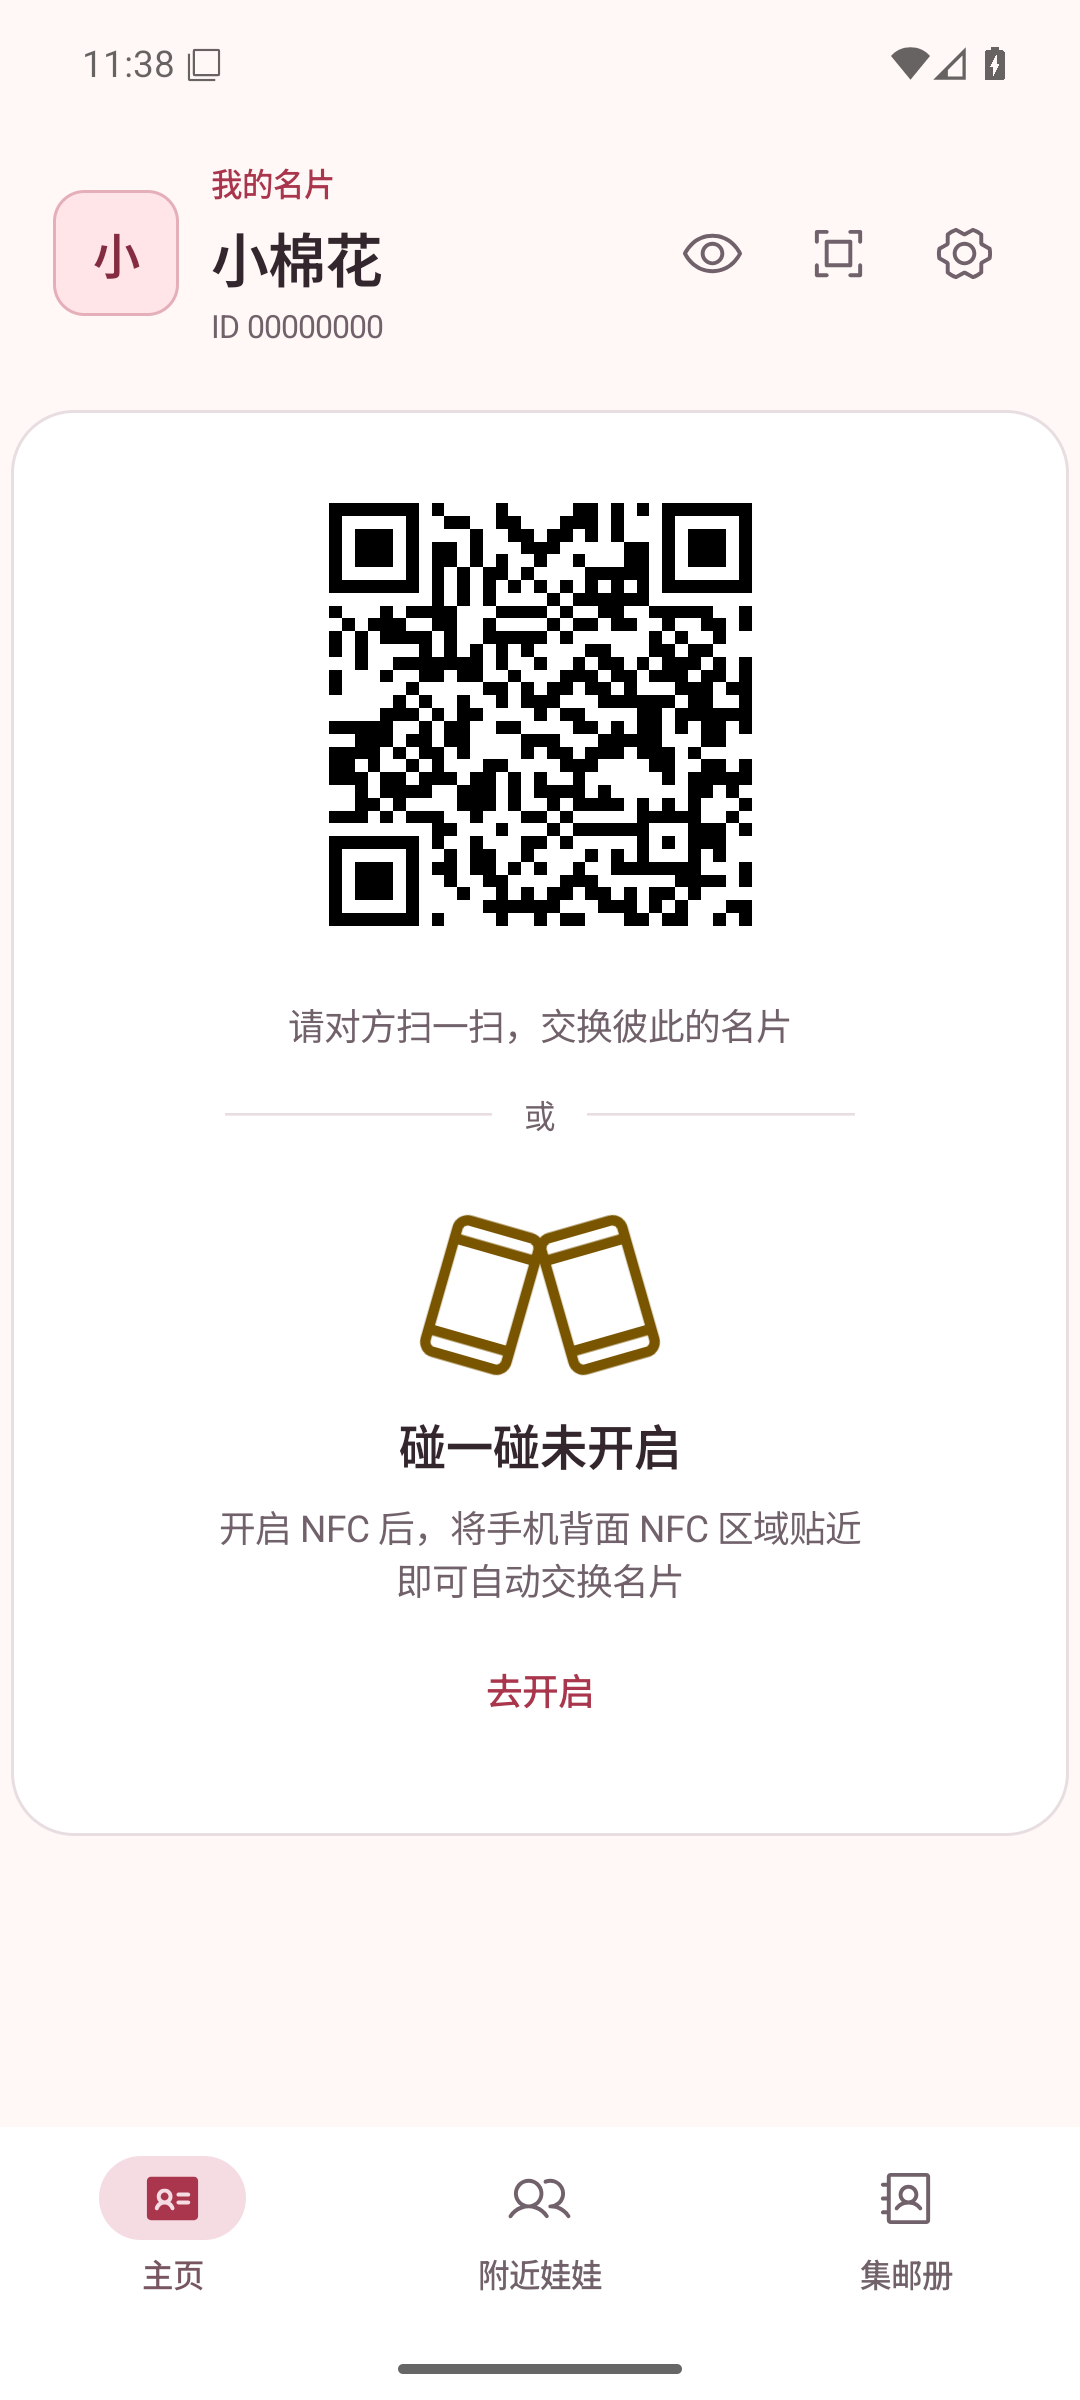
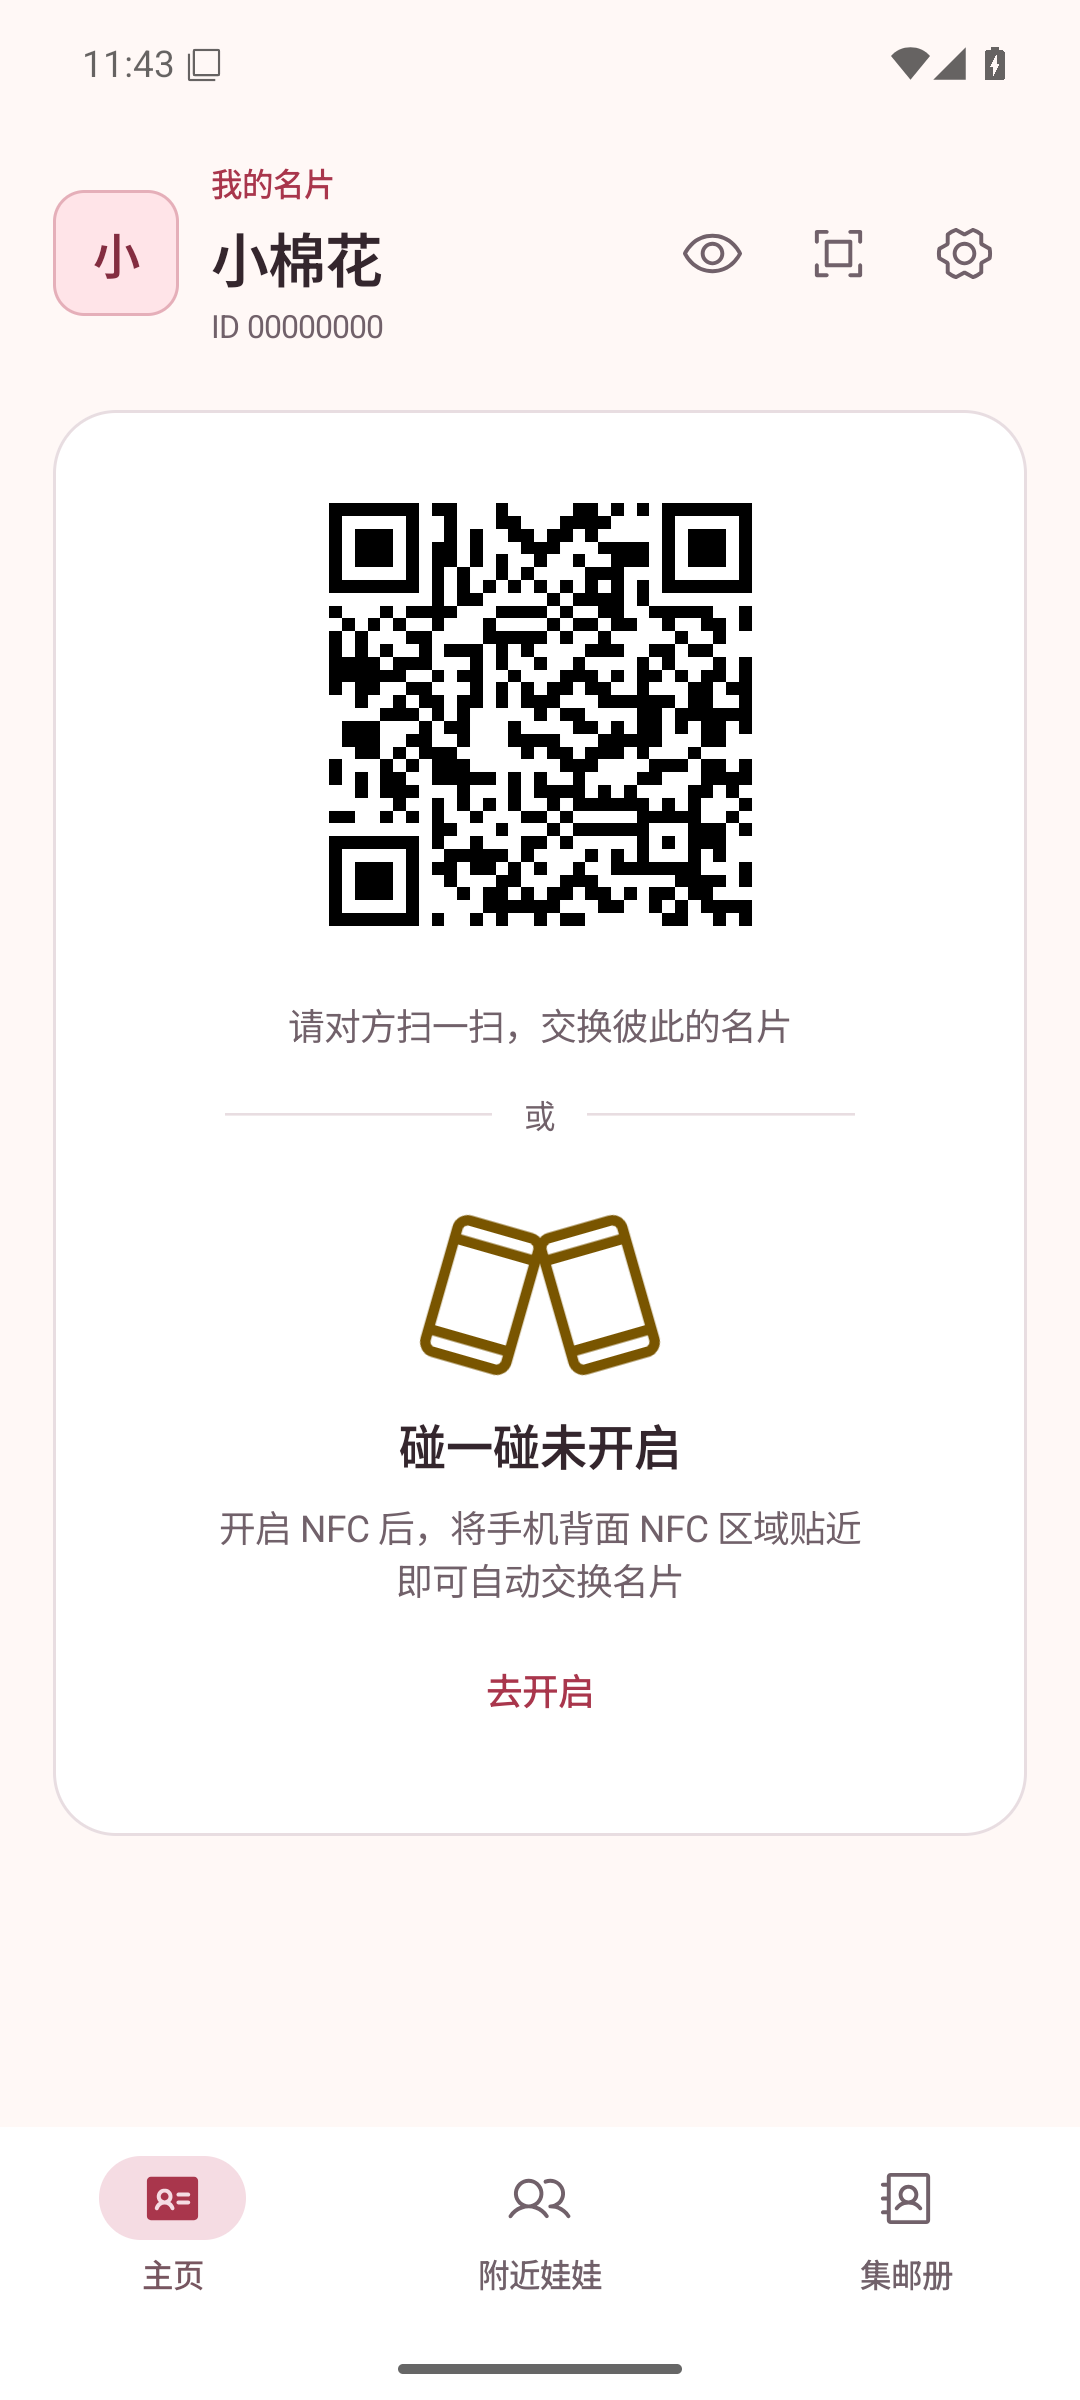
style(ui): set exchange bubble horizontal margin to 20dp

diff --git a/app/src/main/kotlin/app/pengwa/ui/FaceToFacePage.kt b/app/src/main/kotlin/app/pengwa/ui/FaceToFacePage.kt
@@ -142,7 +142,7 @@ internal fun FaceToFacePageContent(
         val compact = maxHeight < 300.dp && maxWidth >= 480.dp
         val codeSize = minOf(200.dp, maxHeight - 40.dp).coerceAtLeast(48.dp)
         Column(
-            Modifier.fillMaxSize().padding(horizontal = 4.dp, vertical = 12.dp)
+            Modifier.fillMaxSize().padding(horizontal = 20.dp, vertical = 12.dp)
                 .verticalScroll(rememberScrollState()),
             verticalArrangement = Arrangement.spacedBy(12.dp),
             horizontalAlignment = Alignment.CenterHorizontally,

diff --git a/docs/screenshots/card-qr-actions/README.md b/docs/screenshots/card-qr-actions/README.md
@@ -2,13 +2,13 @@
 
 - 删除底部通栏“扫一扫”，改为右上角的取景框式扫码图标（Phosphor Scan）；保留 48dp 触控区域和“扫一扫”无障碍名称。
 - 编辑入口收进名片预览：点击眼睛图标“查看我的卡片”，再点“编辑”；保存后返回预览。同步更新首次创建名片的说明。
-- 二维码与碰一碰提示放在同一个圆角气泡内，气泡左右边距为 4dp；二维码本身保留四模块识别静区，取消原来额外的圆角白色内框。仅二维码区域可点击放大，碰一碰提示与设置按钮不会触发放大。
+- 二维码与碰一碰提示放在同一个圆角气泡内，气泡左右边距为 20dp；二维码本身保留四模块识别静区，取消原来额外的圆角白色内框。仅二维码区域可点击放大，碰一碰提示与设置按钮不会触发放大。
 - 碰一碰位于气泡内部的二维码下方，使用双手机靠近的 112 × 72dp 矢量示意和居中文字，不单独增加状态卡，显示“碰一碰，交换名片”及贴近手机 NFC 区域的说明；关闭、不支持 NFC 时显示对应指引。统一使用主题玫瑰色、18sp 标题与 4/8dp 留白，以“或”分隔两种交换方式，精简说明。
 - 移除“出示／读取”模式选择，不增加开始按钮。双方保持主页打开，由应用自动协调 NFC 角色；引导图解同步更新。
 
 ## 本轮视觉细化
 
-保留同一气泡、左右 4dp 边距和二维码下方的碰一碰提示。将绿色支付式图标改为主题色双手机示意，缩小标题，精简说明；二维码识别静区和自动 NFC 交互保持不变。
+保留同一气泡、左右 20dp 边距和二维码下方的碰一碰提示。将绿色支付式图标改为主题色双手机示意，缩小标题，精简说明；二维码识别静区和自动 NFC 交互保持不变。
 
 | 同一主页场景 | 调整前（371323c） | 调整后 |
 |---|---|---|
